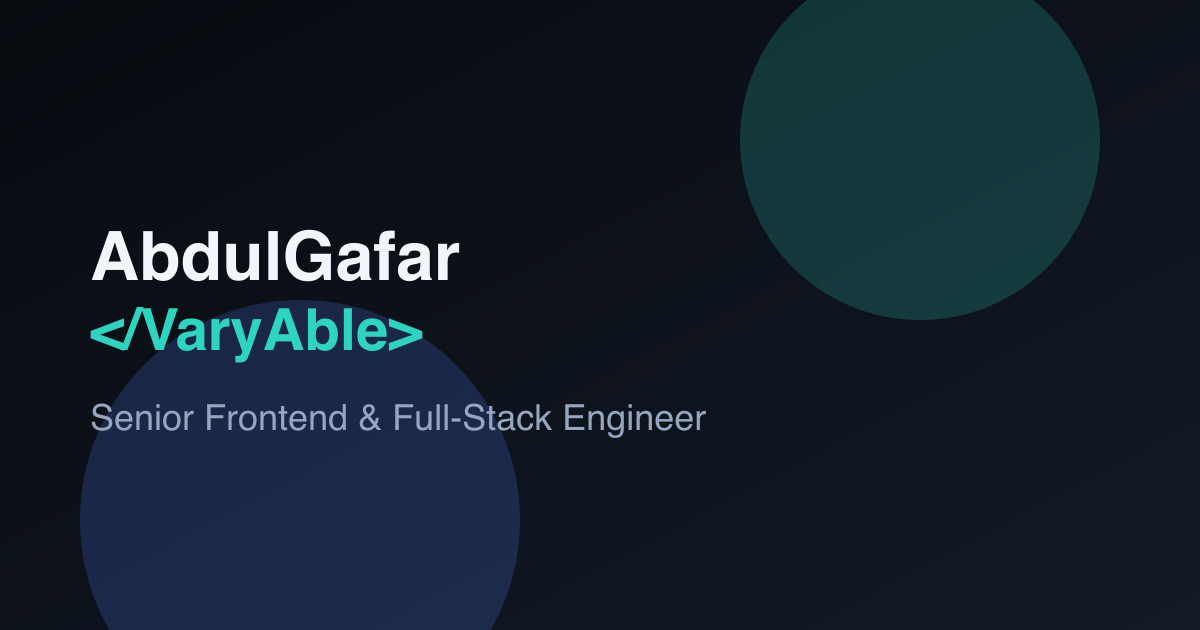
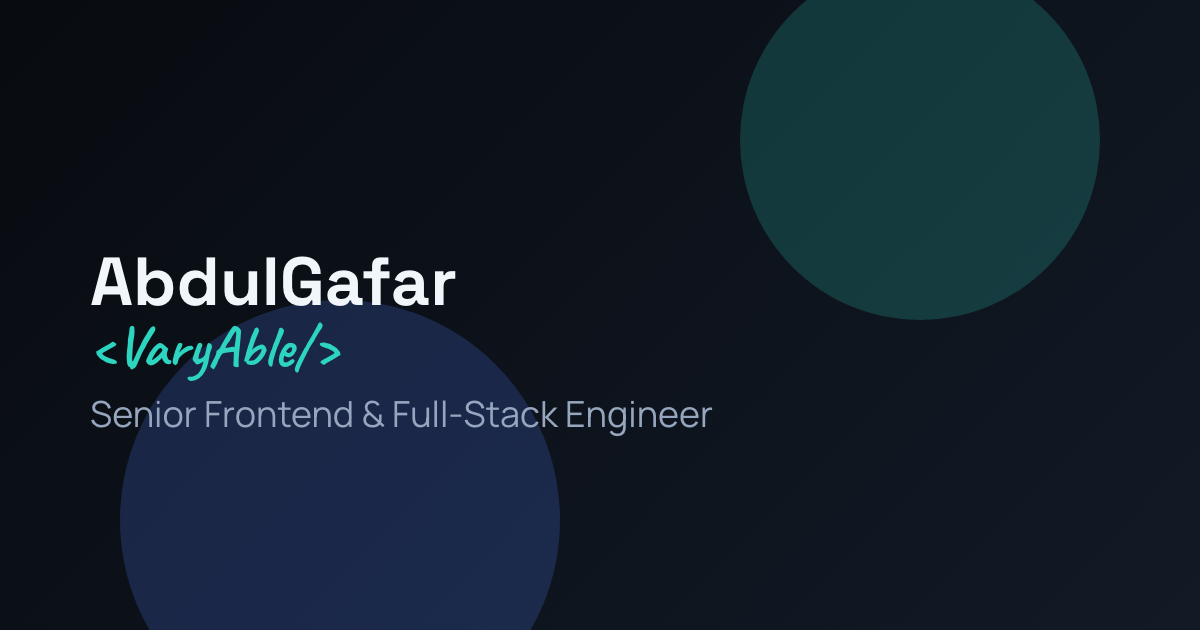
fix: update README and SVG for consistent branding
- Corrected the closing tag in the README from `</VaryAble>` to `<VaryAble/>` for accurate representation.
- Updated the SVG file to reflect the same branding change in the text element.
- Adjusted timestamps in coverage reports to reflect the latest generation time.

Changed region(s): [[0.0617, 0.3619, 0.5858, 1.0]]

diff --git a/coverage/lcov-report/lib/stores/view-mode.ts.html b/coverage/lcov-report/lib/stores/view-mode.ts.html
@@ -535,7 +535,7 @@ export function setViewMode(nextMode: ViewMode): void {
             <div class='footer quiet pad2 space-top1 center small'>
                 Code coverage generated by
                 <a href="https://istanbul.js.org/" target="_blank" rel="noopener noreferrer">istanbul</a>
-                at 2026-03-24T23:57:12.320Z
+                at 2026-03-25T00:04:11.068Z
             </div>
         <script src="../../prettify.js"></script>
         <script>

diff --git a/coverage/lib/stores/view-mode.ts.html b/coverage/lib/stores/view-mode.ts.html
@@ -535,7 +535,7 @@ export function setViewMode(nextMode: ViewMode): void {
             <div class='footer quiet pad2 space-top1 center small'>
                 Code coverage generated by
                 <a href="https://istanbul.js.org/" target="_blank" rel="noopener noreferrer">istanbul</a>
-                at 2026-03-24T23:57:12.301Z
+                at 2026-03-25T00:04:11.058Z
             </div>
         <script src="../../prettify.js"></script>
         <script>

diff --git a/coverage/lcov-report/lib/utils/projects.ts.html b/coverage/lcov-report/lib/utils/projects.ts.html
@@ -166,7 +166,7 @@ export function hasFilledLink(url: string): boolean {
             <div class='footer quiet pad2 space-top1 center small'>
                 Code coverage generated by
                 <a href="https://istanbul.js.org/" target="_blank" rel="noopener noreferrer">istanbul</a>
-                at 2026-03-24T23:57:12.320Z
+                at 2026-03-25T00:04:11.068Z
             </div>
         <script src="../../prettify.js"></script>
         <script>

diff --git a/coverage/lib/utils/projects.ts.html b/coverage/lib/utils/projects.ts.html
@@ -166,7 +166,7 @@ export function hasFilledLink(url: string): boolean {
             <div class='footer quiet pad2 space-top1 center small'>
                 Code coverage generated by
                 <a href="https://istanbul.js.org/" target="_blank" rel="noopener noreferrer">istanbul</a>
-                at 2026-03-24T23:57:12.301Z
+                at 2026-03-25T00:04:11.058Z
             </div>
         <script src="../../prettify.js"></script>
         <script>

diff --git a/coverage/lcov-report/lib/content/portfolio.ts.html b/coverage/lcov-report/lib/content/portfolio.ts.html
@@ -1186,7 +1186,7 @@ export const portfolio: PortfolioData = {
             <div class='footer quiet pad2 space-top1 center small'>
                 Code coverage generated by
                 <a href="https://istanbul.js.org/" target="_blank" rel="noopener noreferrer">istanbul</a>
-                at 2026-03-24T23:57:12.320Z
+                at 2026-03-25T00:04:11.068Z
             </div>
         <script src="../../prettify.js"></script>
         <script>

diff --git a/coverage/lib/content/portfolio.ts.html b/coverage/lib/content/portfolio.ts.html
@@ -1186,7 +1186,7 @@ export const portfolio: PortfolioData = {
             <div class='footer quiet pad2 space-top1 center small'>
                 Code coverage generated by
                 <a href="https://istanbul.js.org/" target="_blank" rel="noopener noreferrer">istanbul</a>
-                at 2026-03-24T23:57:12.301Z
+                at 2026-03-25T00:04:11.058Z
             </div>
         <script src="../../prettify.js"></script>
         <script>

diff --git a/coverage/lcov-report/lib/types/portfolio.ts.html b/coverage/lcov-report/lib/types/portfolio.ts.html
@@ -409,7 +409,7 @@ export interface NavSection {
             <div class='footer quiet pad2 space-top1 center small'>
                 Code coverage generated by
                 <a href="https://istanbul.js.org/" target="_blank" rel="noopener noreferrer">istanbul</a>
-                at 2026-03-24T23:57:12.320Z
+                at 2026-03-25T00:04:11.068Z
             </div>
         <script src="../../prettify.js"></script>
         <script>

diff --git a/coverage/lib/types/portfolio.ts.html b/coverage/lib/types/portfolio.ts.html
@@ -409,7 +409,7 @@ export interface NavSection {
             <div class='footer quiet pad2 space-top1 center small'>
                 Code coverage generated by
                 <a href="https://istanbul.js.org/" target="_blank" rel="noopener noreferrer">istanbul</a>
-                at 2026-03-24T23:57:12.301Z
+                at 2026-03-25T00:04:11.058Z
             </div>
         <script src="../../prettify.js"></script>
         <script>

diff --git a/coverage/lcov-report/lib/content/index.html b/coverage/lcov-report/lib/content/index.html
@@ -101,7 +101,7 @@
             <div class='footer quiet pad2 space-top1 center small'>
                 Code coverage generated by
                 <a href="https://istanbul.js.org/" target="_blank" rel="noopener noreferrer">istanbul</a>
-                at 2026-03-24T23:57:12.320Z
+                at 2026-03-25T00:04:11.068Z
             </div>
         <script src="../../prettify.js"></script>
         <script>

diff --git a/coverage/lcov-report/lib/stores/index.html b/coverage/lcov-report/lib/stores/index.html
@@ -101,7 +101,7 @@
             <div class='footer quiet pad2 space-top1 center small'>
                 Code coverage generated by
                 <a href="https://istanbul.js.org/" target="_blank" rel="noopener noreferrer">istanbul</a>
-                at 2026-03-24T23:57:12.320Z
+                at 2026-03-25T00:04:11.068Z
             </div>
         <script src="../../prettify.js"></script>
         <script>

diff --git a/coverage/lcov-report/lib/types/index.html b/coverage/lcov-report/lib/types/index.html
@@ -101,7 +101,7 @@
             <div class='footer quiet pad2 space-top1 center small'>
                 Code coverage generated by
                 <a href="https://istanbul.js.org/" target="_blank" rel="noopener noreferrer">istanbul</a>
-                at 2026-03-24T23:57:12.320Z
+                at 2026-03-25T00:04:11.068Z
             </div>
         <script src="../../prettify.js"></script>
         <script>

diff --git a/coverage/lcov-report/lib/utils/index.html b/coverage/lcov-report/lib/utils/index.html
@@ -101,7 +101,7 @@
             <div class='footer quiet pad2 space-top1 center small'>
                 Code coverage generated by
                 <a href="https://istanbul.js.org/" target="_blank" rel="noopener noreferrer">istanbul</a>
-                at 2026-03-24T23:57:12.320Z
+                at 2026-03-25T00:04:11.068Z
             </div>
         <script src="../../prettify.js"></script>
         <script>
